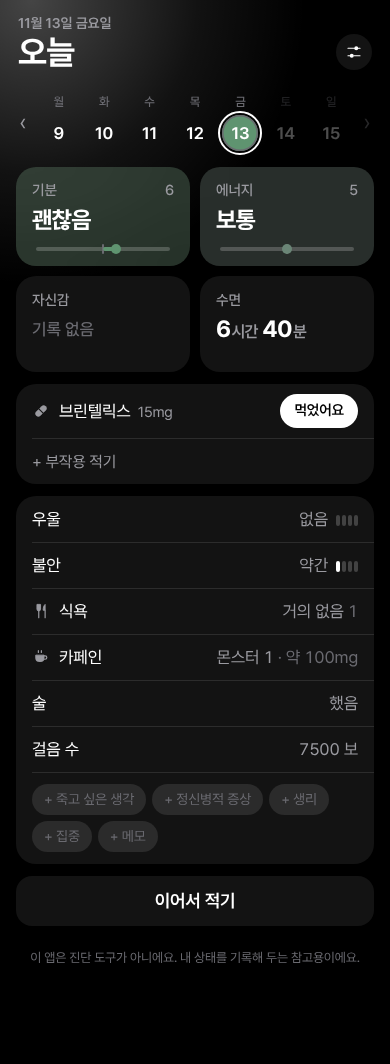
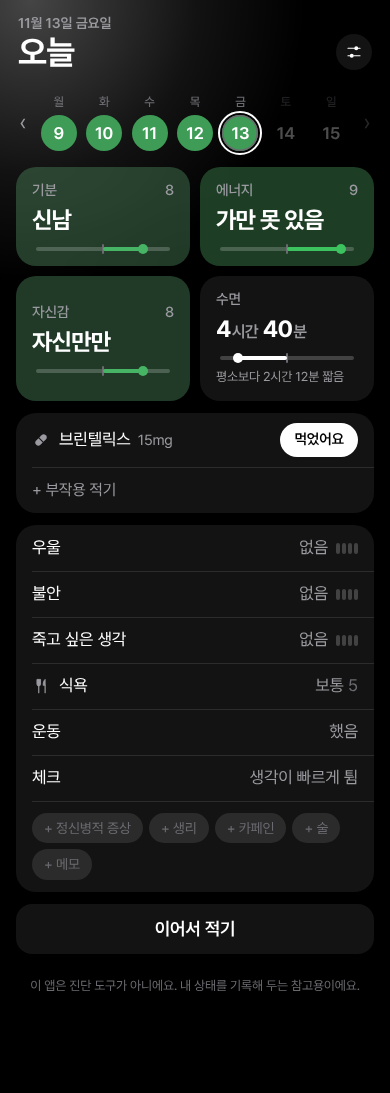
Tide: date numbers keep one colour
The number in a date circle flipped between white and black depending on how bright that day's fill was, which looked inconsistent. The number now always uses the text colour, and the fill brightness is kept within a readable range instead (not too bright in dark mode, not too dark in light mode).

Claude-Session: https://claude.ai/code/session_01Du4KAy7crrN67i73oW7iBF

diff --git a/mood/js/theme.js b/mood/js/theme.js
@@ -36,9 +36,14 @@ export function toneRgb(key, v) {
 export const tone = (key, v) => { const c = toneRgb(key, v); return c ? `rgb(${c})` : ''; };
 
 // 날짜 동그라미 칠하기. 색을 끄면 흑백(낮을수록 어둡게).
+// 숫자 색은 바꾸지 않는다 (칠이 밝으면 검은 글씨, 어두우면 흰 글씨로 뒤집었더니 날마다 숫자 색이 달라 보여서 뺐다, 2026-11-13).
+// 대신 칠의 밝기를 글씨가 읽히는 범위 안에 묶는다: 다크에서는 너무 밝지 않게, 라이트에서는 너무 어둡지 않게.
 export function moodFill(v) {
-  const c = toneRgb('mood', v) ||Array(3).fill(Math.round(isLight() ? 135 + v * 10 : 55 + v * 20));
-  return `background:rgb(${c});color:${(c[0] * 299 + c[1] * 587 + c[2] * 114) / 1000 > 140 ? (isLight() ? '#1d1d1f' : '#000') : '#fff'}`;
+  const light = isLight(), c = toneRgb('mood', v) || Array(3).fill(Math.round(light ? 170 + v * 8 : 45 + v * 8));
+  const lum = (c[0] * 299 + c[1] * 587 + c[2] * 114) / 1000, MAX_DARK = 120, MIN_LIGHT = 175;
+  const fit = !light && lum > MAX_DARK ? c.map((x) => Math.round(x * MAX_DARK / lum))
+    : light && lum < MIN_LIGHT ? c.map((x) => Math.round(x + (255 - x) * (MIN_LIGHT - lum) / (255 - lum))) : c;
+  return `background:rgb(${fit})`;
 }
 
 // ---------- 화면 모드 · 글씨 ----------

diff --git a/mood/app.css b/mood/app.css
@@ -189,6 +189,7 @@ textarea { display: block; font: inherit; font-size: calc(16px * var(--fs, 1.12)
 .cal { display: grid; grid-template-columns: repeat(7, 1fr); row-gap: 6px; margin-top: 10px; text-align: center; }
 .cal .cday { gap: 2px; height: 44px; }
 .cal .cdot { width: 34px; height: 34px; font-size: calc(14px * var(--fs, 1.12)); color: var(--muted); }
+.cal .cdot[style] { color: var(--text); }
 :root[data-theme=light] .cdot[style] { box-shadow: 0 0 0 0.5px rgba(0,0,0,.12); }
 .cal .cday i, .calkey i.pdot { display: block; width: 4px; height: 4px; border-radius: 50%; background: var(--ink); }
 
